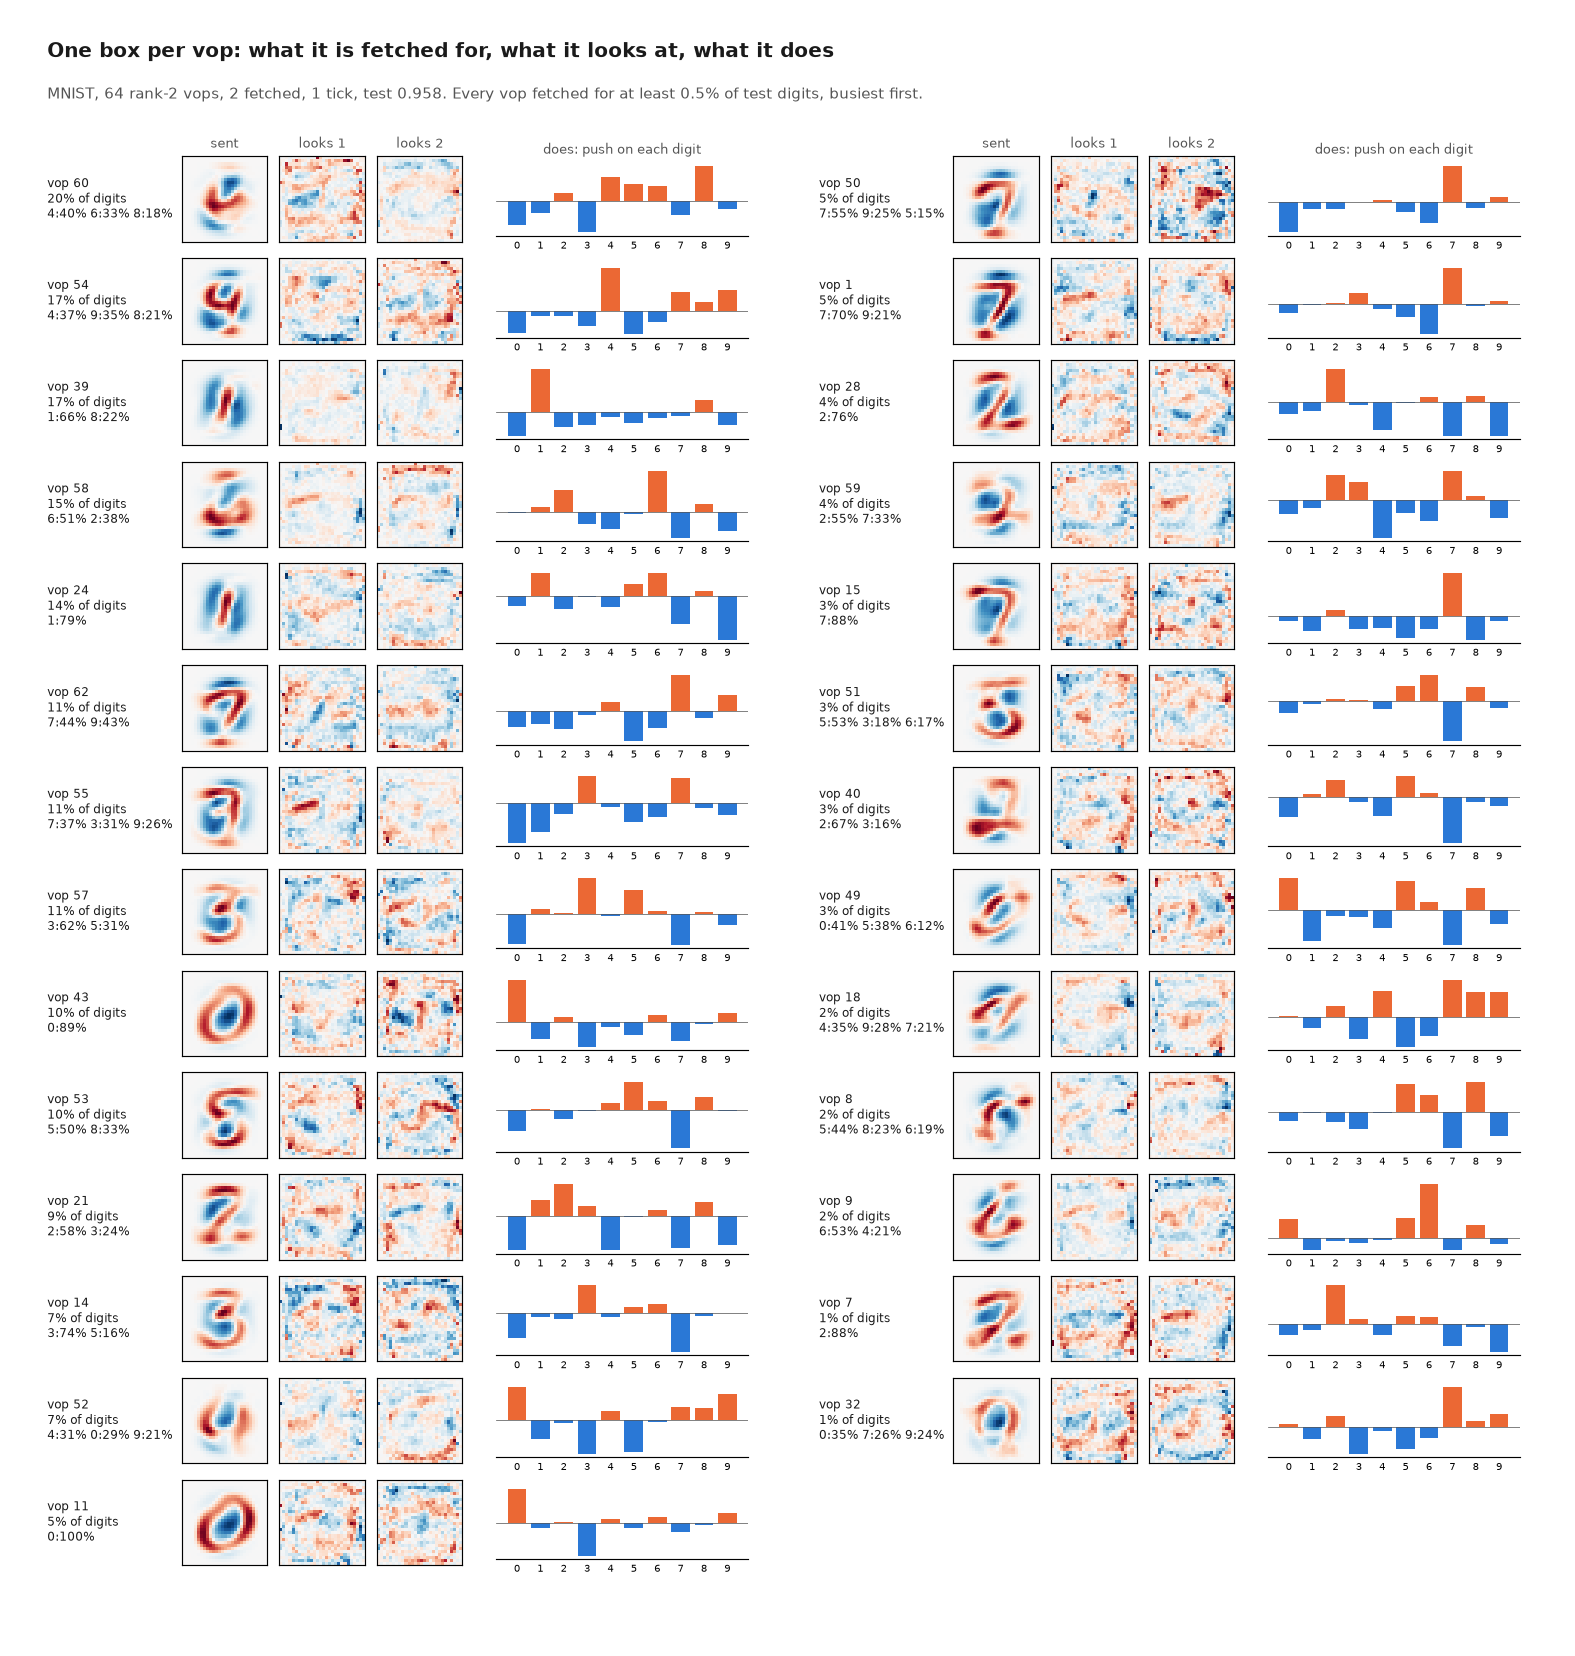
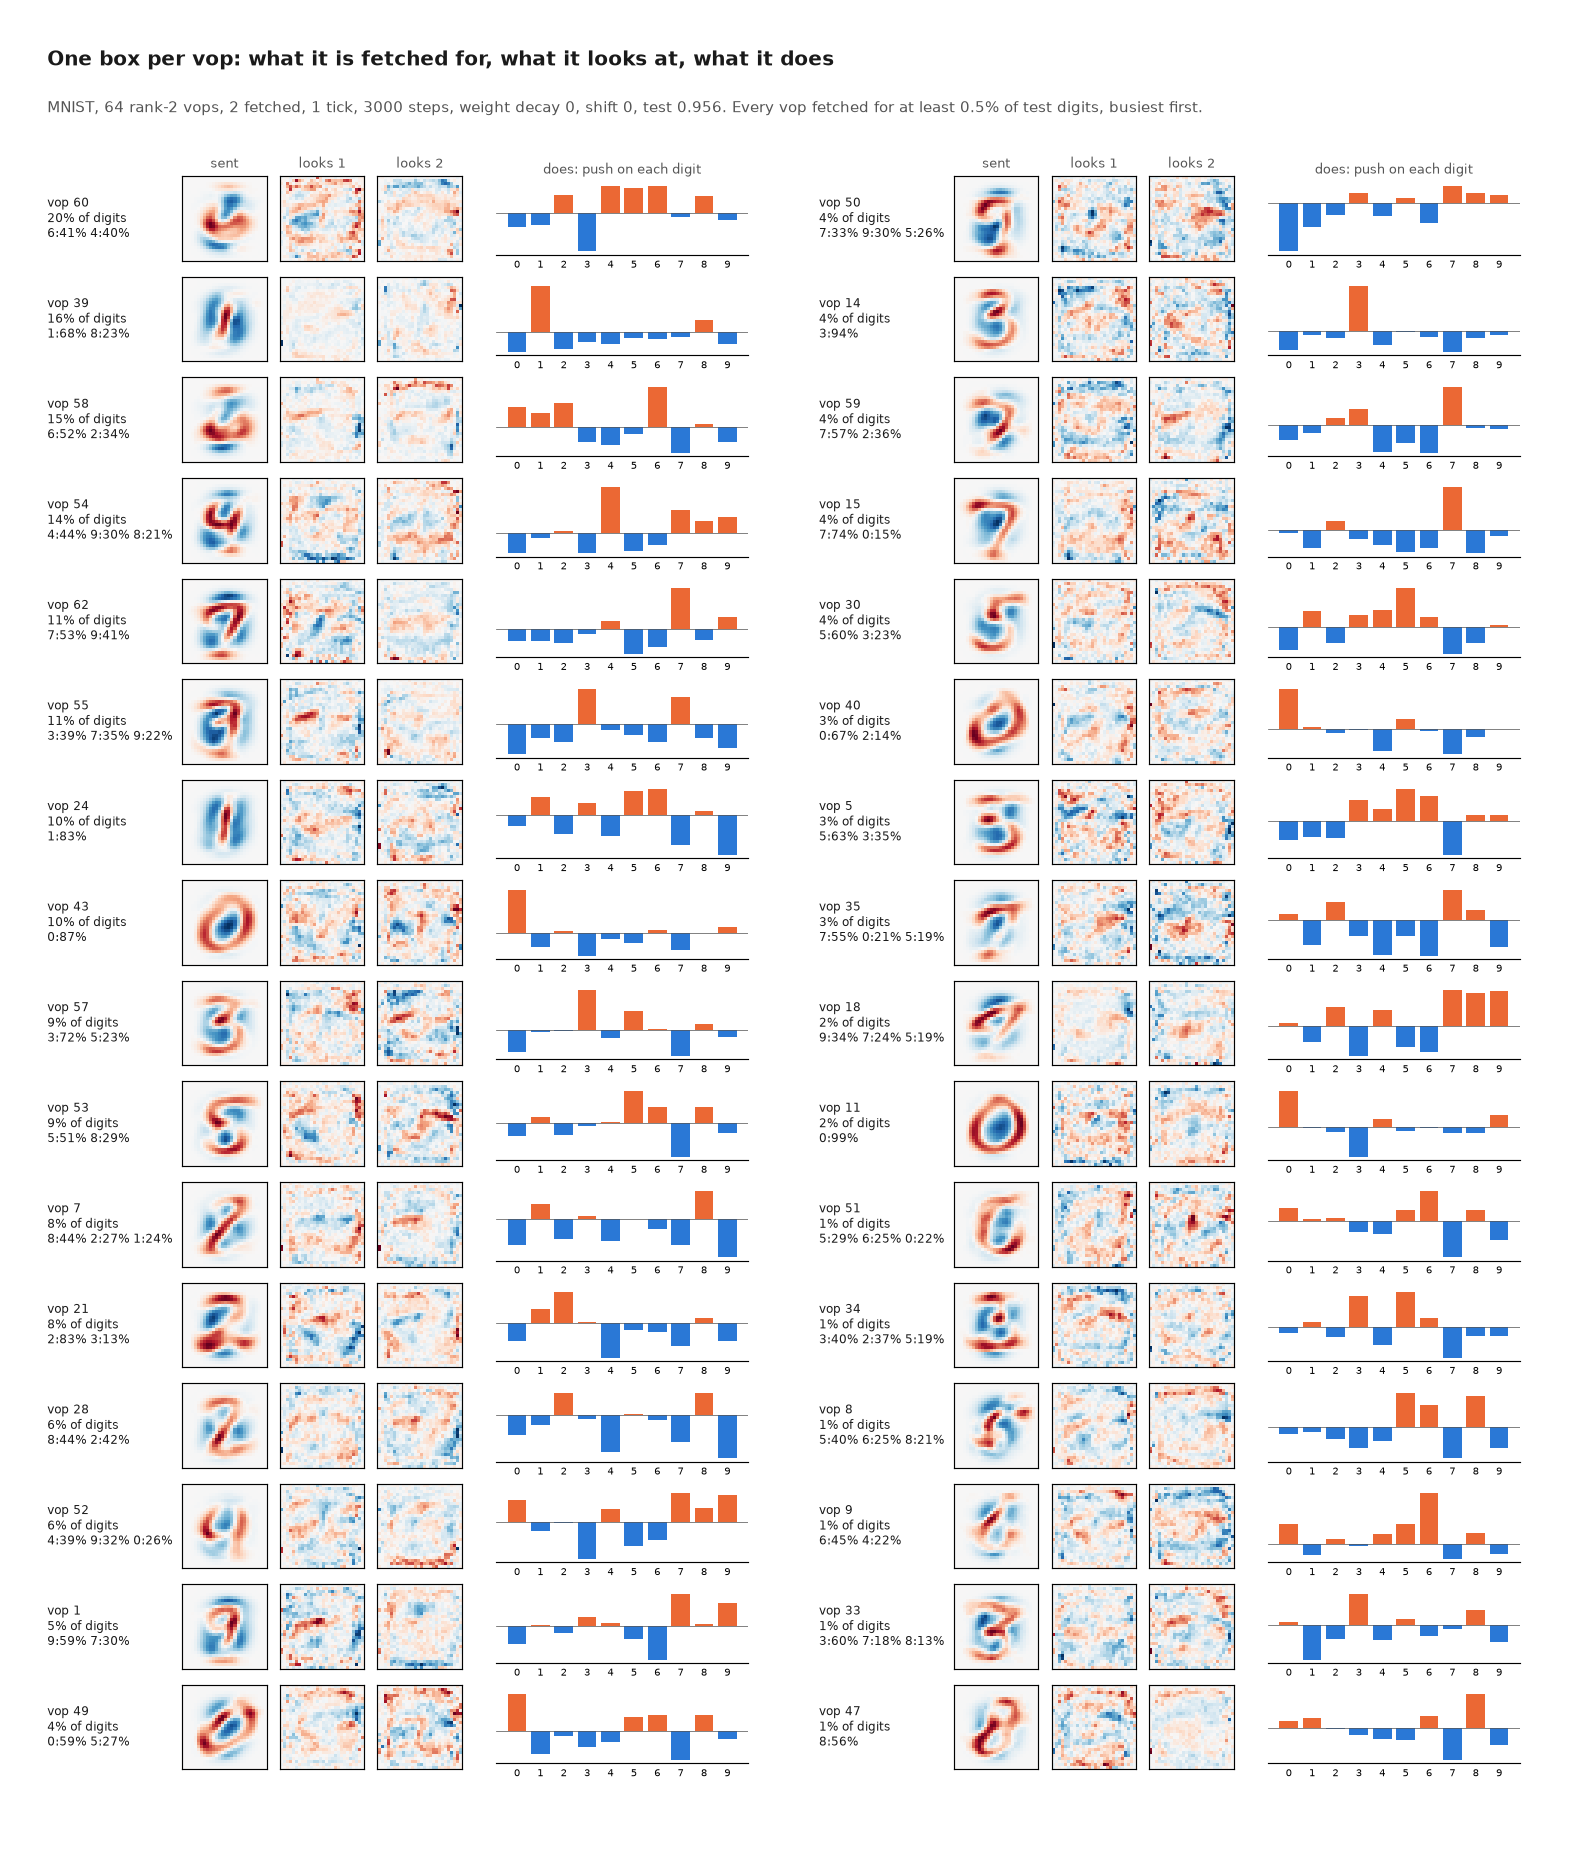
Weight decay, shifted digits and longer training: what a vop reads becomes a smooth stroke; the rare vops are doing real work
Claude-Session: https://claude.ai/code/session_017HqGWZrtcEnYCmw95DeUFv

diff --git a/vvm2/lookvops.py b/vvm2/lookvops.py
@@ -1,6 +1,8 @@
 """One box per vop: what each vop looks at and what it does with it.
 
-  python -m vvm2.lookvops [OPS]        default 64; rank-2 vops, 2 fetched, 1 tick
+  python -m vvm2.lookvops [OPS STEPS WEIGHT_DECAY SHIFT NAME]
+      default 64 3000 0 0 vops-small; rank-2 vops, 2 fetched, 1 tick; the picture is
+      docs/img/NAME.png
 
 With small vops the bank has to share the work, so each vop is easy to read. A rank-2 vop
 reads the state along two directions and writes along two others. Drawn for every vop that
@@ -31,12 +33,13 @@ INK, MUTED = "#1a1a1a", "#555555"
 
 
 def main():
-    ops = int(sys.argv[1]) if len(sys.argv) > 1 else 64
+    arg = sys.argv[1:] + ["64", "3000", "0", "0", "vops-small"][len(sys.argv) - 1:]
+    ops, steps, wd, shift, name = int(arg[0]), int(arg[1]), float(arg[2]), int(arg[3]), arg[4]
     torch.set_num_threads(8)
     data = TASKS["mnist"](0)
     torch.manual_seed(0)
     model = VopVVM(784, 10, d=64, ticks=1, ops=ops, k=2, rank=2)
-    _, test, _ = train(model, data, 3000, 128, 3e-3, 0)
+    fit, test, _ = train(model, data, steps, 128, 3e-3, 0, wd=wd, shift=shift)
     x, y = data[2], data[3]
     b = model.bank
     model.eval()
@@ -59,8 +62,28 @@ def main():
                              for d, c in digits.most_common(3) if c / int(m.sum()) >= 0.12)
             rows.append((op, m.float().mean().item(), (x[m].mean(dim=0) - base).view(28, 28),
                          looks, push, names or "mixed"))
-    print("mnist, %d rank-2 vops, 2 fetched, 1 tick: test %.3f; %d vops drawn" %
-          (ops, test, len(rows)))
+    print("mnist, %d rank-2 vops, 2 fetched, 1 tick, %d steps, weight decay %g, shift %d: "
+          "train %.3f, test %.3f; %d vops drawn" % (ops, steps, wd, shift, fit, test, len(rows)))
+    # how unevenly the vops are used, and what the rarely used ones are worth
+    use = torch.bincount(got.flatten(), minlength=ops).float()
+    order = use.argsort(descending=True)
+    share = use[order] / use.sum()
+    print("  use, busiest first (%% of fetches): %s" % " ".join(
+        "%.1f" % (100 * v) for v in share[:24].tolist()))
+    print("  the busiest 4 take %.0f%% of fetches, the busiest 8 %.0f%%, the busiest 16 %.0f%%"
+          % (100 * share[:4].sum(), 100 * share[:8].sum(), 100 * share[:16].sum()))
+
+    def test_with(blocked):
+        b.blocked.zero_()
+        b.blocked[blocked] = True
+        with torch.no_grad():
+            acc = (model(x).argmax(dim=1) == y).float().mean().item()
+        b.blocked.zero_()
+        return acc
+
+    for keep in (2, 4, 8, 16):
+        print("  only the busiest %2d vops allowed: test %.3f" % (keep, test_with(order[keep:])))
+    print("  the busiest 4 knocked out: test %.3f" % test_with(order[:4]))
     for d in range(10):
         pairs = Counter(tuple(sorted(p)) for p in got[y == d].tolist())
         n = int((y == d).sum())
@@ -98,10 +121,11 @@ def main():
             ax.set_title("does: push on each digit", fontsize=9, color=MUTED)
     back.text(0.03, 0.965, "One box per vop: what it is fetched for, what it looks at, what it "
               "does", fontsize=14, color=INK, weight="bold", transform=fig.transFigure)
-    back.text(0.03, 0.94, "MNIST, %d rank-2 vops, 2 fetched, 1 tick, test %.3f. Every vop "
-              "fetched for at least 0.5%% of test digits, busiest first." % (ops, test),
+    back.text(0.03, 0.94, "MNIST, %d rank-2 vops, 2 fetched, 1 tick, %d steps, weight decay "
+              "%g, shift %d, test %.3f. Every vop fetched for at least 0.5%% of test digits, "
+              "busiest first." % (ops, steps, wd, shift, test),
               fontsize=10, color=MUTED, transform=fig.transFigure)
-    fig.savefig("docs/img/vops-small.png", dpi=105)
+    fig.savefig("docs/img/%s.png" % name, dpi=105)
     plt.close(fig)
 
 

diff --git a/vvm2/vop.py b/vvm2/vop.py
@@ -37,12 +37,14 @@ class VopBank(nn.Module):
             self.w = nn.Parameter(torch.randn(ops, d, d) / math.sqrt(d))
         self.b = nn.Parameter(torch.zeros(ops, d))
         self.register_buffer("picks", torch.zeros(ops))
+        self.register_buffer("blocked", torch.zeros(ops, dtype=torch.bool))  # for knock-outs
         self.last = None
 
     def forward(self, state):
         """state [B, d] -> the mixed output of the k fetched ops, [B, d]."""
         q = F.layer_norm(self.query(state), (self.d_key,))
-        sc, idx = (q @ self.keys.T).topk(self.k, dim=-1)          # [B, k]
+        scores = (q @ self.keys.T).masked_fill(self.blocked, float("-inf"))
+        sc, idx = scores.topk(self.k, dim=-1)                      # [B, k]
         w = torch.softmax(sc, dim=-1)
         if self.rank:
             mid = torch.einsum("bkrj,bj->bkr", self.v[idx], state)
@@ -115,6 +117,8 @@ def main():
     a("--k", type=int, default=2)
     a("--rank", type=int, default=0, help=">0: each op is a rank-r matrix")
     a("--apply", default="ff", choices=["ff", "res"])
+    a("--wd", type=float, default=0.0, help="weight decay")
+    a("--shift", type=int, default=0, help="mnist: move training images up to this many pixels")
     a("--threads", type=int, default=4)
     args = p.parse_args()
     torch.set_num_threads(args.threads)
@@ -144,7 +148,8 @@ def main():
                 best = min(range(2, 2049), key=lambda w: abs(
                     MLP(ins, outs, w).madds_total() - ref.madds_total()))
                 model = MLP(ins, outs, best)
-            tr, te, secs = train(model, data, args.steps, args.batch, args.lr, seed)
+            tr, te, secs = train(model, data, args.steps, args.batch, args.lr, seed,
+                                 wd=args.wd, shift=args.shift)
             u = use(model, data[2]) if name == "vvm" else None
             rows.append((params(model), model.madds_total(), tr, te, u, secs))
         mean = lambda j: sum(r[j] for r in rows) / len(rows)

diff --git a/vvm2/classic.py b/vvm2/classic.py
@@ -134,17 +134,31 @@ def score(model, x, y, kind):
     return F.mse_loss(out, y).item()
 
 
-def train(model, data, steps, batch, lr, seed):
+def shifted(x, most, g):
+    """Each 28 by 28 image moved by up to `most` pixels each way, at random."""
+    n = len(x)
+    img = F.pad(x.view(n, 28, 28), (most, most, most, most))
+    oy = torch.randint(2 * most + 1, (n, 1, 1), generator=g)
+    ox = torch.randint(2 * most + 1, (n, 1, 1), generator=g)
+    rows = oy + torch.arange(28).view(1, 28, 1)
+    cols = ox + torch.arange(28).view(1, 1, 28)
+    return img[torch.arange(n).view(n, 1, 1), rows, cols].reshape(n, 784)
+
+
+def train(model, data, steps, batch, lr, seed, wd=0.0, shift=0):
+    """wd: weight decay (AdamW). shift: MNIST only, move each training image by up to this
+    many pixels at random (the usual augmentation)."""
     x, y, tx, ty, kind = data
     torch.manual_seed(seed)
-    opt = torch.optim.AdamW(model.parameters(), lr=lr, weight_decay=0.0)
+    opt = torch.optim.AdamW(model.parameters(), lr=lr, weight_decay=wd)
     sched = torch.optim.lr_scheduler.OneCycleLR(opt, max_lr=lr, total_steps=steps)
     g = torch.Generator().manual_seed(seed)
     start = time.time()
     for _ in range(steps):
         model.train()
         i = torch.randint(len(x), (min(batch, len(x)),), generator=g)
-        out = model(x[i])
+        xb = shifted(x[i], shift, g) if shift else x[i]
+        out = model(xb)
         loss = F.cross_entropy(out, y[i]) if kind == "class" else F.mse_loss(out, y[i])
         opt.zero_grad()
         loss.backward()

diff --git a/docs/findings.md b/docs/findings.md
@@ -27,3 +27,15 @@ numbers are test accuracy after 3,000 steps, 2 seeds, `scripts/classic.sh mnist 
 6. **A digit mostly takes one path, and the other paths are other handwriting.** [hint: one
    trained vvm] Share of a digit's examples on its commonest path: 91% for 0, 26% for 7;
    upright and slanted ones take different paths (`docs/img/digits-mnist.png`).
+7. **The rarely fetched vops are doing real work.** [likely: two trainings] Small-vop bank
+   of 64 (`scripts/lookvops.sh`): use is uneven but not a cliff (the busiest 4 take 32% to
+   40% of fetches, the busiest 16 81% to 94%). Allowing only the busiest 2 vops: 0.32 to
+   0.45; the busiest 4: 0.55 to 0.62; 8: 0.86 to 0.89; 16: 0.95; all: 0.956. Knocking out
+   the busiest 4: 0.77 to 0.80.
+8. **Ordinary practice matters and was missing.** [hint: one seed] 3,000 steps with no
+   weight decay left what the vops read looking like noise. 12,000 steps with weight decay
+   0.05 and training digits shifted up to 2 pixels: what each vop reads is a smooth stroke
+   or curve (`docs/img/vops-small-trained.png` against `vops-small.png`). Weight decay
+   alone lifts the test score to 0.963 (train 0.988); with the shifts it is 0.956 on both,
+   so that vvm is then short of capacity, not overfitted.
+
